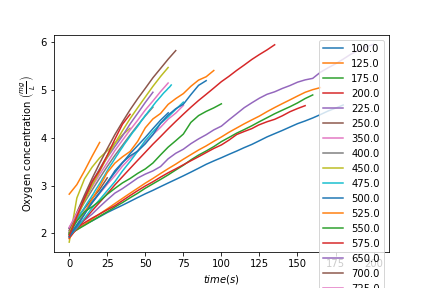
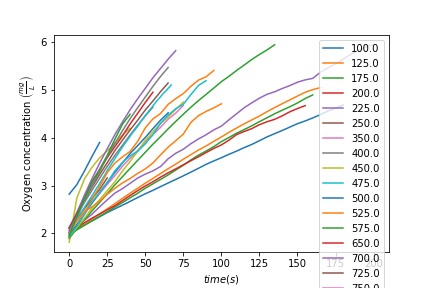
qfwq

diff --git a/Gastransfer.md b/Gastransfer.md
@@ -67,22 +67,16 @@ def aeration_data(DO_column, dirpath):
     aeration_results = aeration_collection(filepaths, airflows, DO_data, time_data)
     return aeration_results
 
+
+
 # The column of data containing the dissolved oxygen concentrations
 DO_column = 2
-dirpath = "Examples/data/Aeration"
+acc_column = 1
+dirpath = "data/Aeration/"
 filepaths, airflows, DO_data, time_data = aeration_data(DO_column,dirpath)
-
+Accumulator = []
 
 # Plot the raw data
-
-for i in range(airflows.size):
-  plt.plot(time_data[i], DO_data[i],'-')
-plt.xlabel(r'$time (s)$')
-plt.ylabel(r'Oxygen concentration $\left ( \frac{mg}{L} \right )$')
-plt.legend(airflows.magnitude)
-plt.show()
-
-#delete data that is less than 2 or greater than 6 mg/L
 DO_min = 2 * u.mg/u.L
 DO_max = 6 * u.mg/u.L
 for i in range(airflows.size):
@@ -90,7 +84,81 @@ for i in range(airflows.size):
   idx_end = (np.abs(DO_data[i]-DO_max)).argmin()
   time_data[i] = time_data[i][idx_start:idx_end] - time_data[i][idx_start]
   DO_data[i] = DO_data[i][idx_start:idx_end]
-  Accumulator_P[i] = Accumulator_P[i][idx_start:idx_end]
+
+
+for i in range(airflows.size):
+  plt.plot(time_data[i], DO_data[i],'-')
+plt.xlabel(r'$time (s)$')
+plt.ylabel(r'Oxygen concentration $\left ( \frac{mg}{L} \right )$')
+plt.legend(airflows.magnitude)
+plt.savefig('C:/Users/dapmo/github/4530/GasTransfer')
+plt.show()
+
+
+
+for i in 2,3,6,8,9,:
+  plt.plot(time_data[i], DO_data[i],'-')
+plt.xlabel(r'$time (s)$')
+plt.ylabel(r'Oxygen concentration $\left ( \frac{mg}{L} \right )$')
+plt.legend(airflows.magnitude)
+plt.savefig('C:/Users/dapmo/github/4530/GasTransfer2')
+plt.show()
+
+P_air = 1*u.atmosphere
+temp = 298*u.kelvin
+
+C_star = (epa.O2_sat(P_air,temp))*(u.L/u.mg)
+C_star
+
+P_air =
+time_data
+kvalues = ()
+for i in range (0,23):
+  DOdata = DO_data[i]
+  timedata = time_data[i]
+  x = ()
+  y = ()
+  DOo = DOdata[0]*(u.L/u.mg)
+  DOo
+  for k in range (0,timedata.size-1):
+    ew = np.absolute((C_star - DOdata[k]*(u.L/u.mg))/(C_star -  DOo))
+    y = np.append(y,ew)
+    x = np.append(x,timedata[k]/(u.second))
+
+
+  stats.linregress(x, y)
+  slope, intercept, r_value, p_value, std_err = stats.linregress(x,y)
+  kvalues = np.append(kvalues,slope)
+
+
+kvalues = -kvalues
+
+test = 0
+
+t = np.array(range(200))*u.dimensionless
+DOdata = DO_data[test]*(u.L/u.mg)
+k = kvalues[test]*u.dimensionless
+C = -(C_star-DOdata[0])*2.71828**((-k*t).to(u.dimensionless).magnitude)+C_star
+
+timedata = time_data[test]
+DOdata = DO_data[test]
+#C=-k.to(u.dimensionless).magnitude*t.to(u.dimensionless).magnitude+DOdata[7]
+
+plt.plot(t,C,'g')
+plt.plot(timedata,DOdata,'ro')
+
+
+
+xx = (100,125,175,200,225,250,350,400,450,475,500,525,575,650,700,725,750,775,800,825,850,925,950)
+plt.plot(xx,kvalues,'o-')
+
+
+
+#delete data that is less than 2 or greater than 6 mg/L
 
 
 ```
+C^{\star} =P_{O_{2}} {\mathop{e}\nolimits^{\left(\frac{1727}{T} -2.105\right)}}
+
+
+$$ C = - (C^{*} - C_o)*e^{-kt} +  C^{*}  $$
